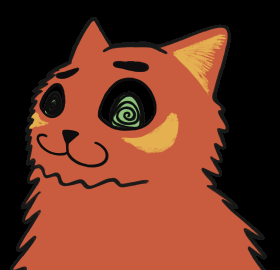
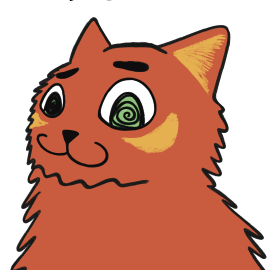
Español neutro y arte con fondo blanco en lugar de transparente
Claude-Session: https://claude.ai/code/session_01XaY7G4dsM1pSDCzmeK4CRS

diff --git a/app.js b/app.js
@@ -13,7 +13,7 @@
   ];
 
   // Posición (en % del ancho) de cada número sobre la pista; el índice 0 es la salida.
-  const PISTA_X = [2.5, 8.9, 20.7, 28.3, 37.8, 46.3, 54, 63.4, 72.4, 80.6, 91.3];
+  const PISTA_X = [2.5, 8.0, 20.5, 28.3, 37.8, 46.3, 54, 63.4, 72.4, 80.6, 91.3];
   const META = 10;
 
   const COLORES = ["#e2197c", "#2f6fd6", "#f2c230", "#35b36a", "#9b5de5"];
@@ -55,7 +55,7 @@
   function nuevaPartida() {
     limpiarTimers();
     const nRivales = +$("#rivales").value;
-    const nombre = $("#nombre").value.trim() || "Vos";
+    const nombre = $("#nombre").value.trim() || "Tú";
     const jugadores = [{ nombre, bot: false, color: COLORES[0], pts: 0, fuera: false }];
     for (let i = 0; i < nRivales; i++)
       jugadores.push({ nombre: NOMBRES_BOT[i], emoji: EMOJI_BOT[i], bot: true, color: COLORES[i + 1], pts: 0, fuera: false });
@@ -75,7 +75,7 @@
     construirMarcador();
     ui.dado.dataset.cara = "1";
     setBoton("Lanzar dado", true);
-    decir("Lanzá el dado para empezar. Buscá la carta con tantos gatos como marque el dado.");
+    decir("Lanza el dado para empezar. Busca la carta con tantos gatos como marque el dado.");
     mostrar("juego");
   }
 
@@ -168,8 +168,8 @@
     estado.fase = "ronda";
     const carta = cartaConGatos(n);
     decir(carta.encerrado
-      ? `¡Salió ${n}! Ese gato ya está encerrado… ¿te acordás en qué canil está?`
-      : `¡Salió ${n}! ¡Atrapá la carta con ${n} gato${n > 1 ? "s" : ""}!`);
+      ? `¡Salió ${n}! Ese gato ya está encerrado… ¿recuerdas en qué canil está?`
+      : `¡Salió ${n}! ¡Atrapa la carta con ${n} gato${n > 1 ? "s" : ""}!`);
 
     // Los rivales virtuales reaccionan con su propio tiempo y a veces se equivocan.
     const d = estado.dif;
@@ -188,7 +188,7 @@
     luego(9000, () => {
       if (estado.fase !== "ronda") return;
       revelar(carta, "acierto");
-      cerrarRonda(`Nadie encontró al gato de ${n}. ¡Lanzá de nuevo!`);
+      cerrarRonda(`Nadie encontró al gato de ${n}. ¡Lanza de nuevo!`);
     });
   }
 
@@ -222,7 +222,7 @@
       }
       actualizarMarcador();
 
-      const quien = j.bot ? j.nombre : "¡Vos";
+      const quien = j.bot ? j.nombre : "¡Tú";
       const texto = j.bot
         ? `${j.nombre} ${yaEstaba ? "recordó dónde estaba" : "encerró"} al gato de ${estado.objetivo}.`
         : `${quien} ${yaEstaba ? "lo recordaste" : "lo encerraste"}! +1 punto.`;
@@ -233,7 +233,7 @@
         decir(texto);
         return luego(700, () => empezarCambio(i, texto));
       }
-      cerrarRonda(texto + " Lanzá el dado otra vez.");
+      cerrarRonda(texto + " Lanza el dado otra vez.");
     } else {
       j.fuera = true;
       carta.el.classList.add("error");
@@ -241,11 +241,11 @@
       if (carta.encerrado) revelar(carta, "error");
       actualizarMarcador();
       decir(j.bot
-        ? `${j.nombre} se equivocó de gato y queda afuera de esta ronda.`
-        : `¡Ese no era! Quedás afuera de esta ronda.`);
+        ? `${j.nombre} se equivocó de gato y queda fuera de esta ronda.`
+        : `¡Ese no era! Quedas fuera de esta ronda.`);
       if (estado.jugadores.every((x) => x.fuera)) {
         revelar(cartaConGatos(estado.objetivo), "acierto");
-        cerrarRonda("Todos se equivocaron. ¡Lanzá de nuevo!");
+        cerrarRonda("Todos se equivocaron. ¡Lanza de nuevo!");
       }
     }
   }
@@ -266,7 +266,7 @@
     if (!j.bot) {
       estado.cartas.forEach((c) => c.el.classList.toggle("elegible", c !== estado.cartaGanada));
       setBoton("Seguir sin cambiar", true);
-      decir(texto + " Tocá otra carta para cambiarlas de lugar, o seguí sin cambiar.");
+      decir(texto + " Toca otra carta para cambiarlas de lugar, o sigue sin cambiar.");
       return;
     }
     setBoton("Lanzar dado", false);
@@ -283,7 +283,7 @@
 
   function terminarCambio(texto) {
     estado.cartas.forEach((c) => c.el.classList.remove("elegible"));
-    cerrarRonda((texto || "Seguimos.") + " Lanzá el dado.");
+    cerrarRonda((texto || "Seguimos.") + " Lanza el dado.");
   }
 
   function intercambiar(a, b) {

diff --git a/index.html b/index.html
@@ -4,7 +4,7 @@
   <meta charset="utf-8">
   <meta name="viewport" content="width=device-width, initial-scale=1, viewport-fit=cover">
   <title>Gato Encerrado</title>
-  <meta name="description" content="Probá online Gato Encerrado, el juego de reflejos y memoria felina de La Vaca del Tablero.">
+  <meta name="description" content="Prueba online Gato Encerrado, el juego de reflejos y memoria felina de La Vaca del Tablero.">
   <link rel="icon" href="assets/logo-gato.png">
   <link rel="preconnect" href="https://fonts.googleapis.com">
   <link rel="preconnect" href="https://fonts.gstatic.com" crossorigin>
@@ -15,11 +15,11 @@
   <!-- Pantalla de inicio -->
   <section id="inicio" class="pantalla activa">
     <img class="logo" src="assets/logo.png" alt="Gato Encerrado">
-    <p class="lema">¡Lanzá el dado, agudizá la vista y sé el más rápido en atrapar al gato!</p>
+    <p class="lema">¡Lanza el dado, agudiza la vista y sé el más rápido en atrapar al gato!</p>
 
     <div class="panel config">
       <label>Tu nombre
-        <input id="nombre" maxlength="14" value="Vos">
+        <input id="nombre" maxlength="14" value="Tú">
       </label>
       <label>Rivales (gatos virtuales)
         <select id="rivales">
@@ -64,7 +64,7 @@
           <div id="dado" class="dado" data-cara="1" aria-live="polite"></div>
           <button id="btn-dado" class="btn">Lanzar dado</button>
         </div>
-        <p id="mensaje" class="mensaje" aria-live="polite">Lanzá el dado para empezar.</p>
+        <p id="mensaje" class="mensaje" aria-live="polite">Lanza el dado para empezar.</p>
         <ul id="marcador" class="marcador"></ul>
       </aside>
     </div>
@@ -82,11 +82,11 @@
     <h2>Cómo se juega</h2>
     <ol>
       <li><b>Preparación:</b> las 6 cartas de gato se ponen boca arriba. Cada carta tiene una cantidad distinta de gatos-sushi: de <b>1 a 6</b>.</li>
-      <li><b>Lanzá el dado.</b> Todos buscan a la vez la carta que tenga <b>tantos gatos como marca el dado</b>.</li>
+      <li><b>Lanza el dado.</b> Todos buscan a la vez la carta que tenga <b>tantos gatos como marca el dado</b>.</li>
       <li>El primero en tocarla <b>encierra al gato</b>: gana 1 punto y la carta se da vuelta y muestra el canil.</li>
-      <li><b>Giros (opcional):</b> quien encerró al gato puede cambiar esa carta de lugar con otra. ¡Mirá bien a dónde va!</li>
-      <li>Si sale un número cuyo gato ya está encerrado, hay que <b>recordar</b> en qué canil está. Si acertás, sumás el punto.</li>
-      <li>¿Tocaste la carta equivocada? No perdés puntos, pero quedás afuera de esa ronda.</li>
+      <li><b>Giros (opcional):</b> quien encerró al gato puede cambiar esa carta de lugar con otra. ¡Mira bien a dónde va!</li>
+      <li>Si sale un número cuyo gato ya está encerrado, hay que <b>recordar</b> en qué canil está. Si aciertas, sumas el punto.</li>
+      <li>¿Tocaste la carta equivocada? No pierdes puntos, pero quedas fuera de esa ronda.</li>
       <li>Cada jugador avanza su cubo en la pista de puntos.</li>
       <li>Gana quien llega primero a <b>10 puntos</b>.</li>
     </ol>

diff --git a/style.css b/style.css
@@ -31,7 +31,7 @@ body {
   align-items: center;
   padding: 24px 16px 32px;
   gap: 12px;
-  background: var(--panel);
+  background: var(--panel) url("assets/fondo-gatos.jpg") center / 420px repeat;
 }
 #inicio .logo {
   width: min(420px, 90vw);

diff --git a/README.md b/README.md
@@ -2,20 +2,20 @@
 
 Versión web de prueba de **Gato Encerrado**, el juego de reflejos y memoria felina de **La Vaca del Tablero**.
 
-> ¡Lanzá el dado, agudizá la vista y sé el más rápido en atrapar al gato!
+> ¡Lanza el dado, agudiza la vista y sé el más rápido en atrapar al gato!
 
 - 2 a 5 jugadores · 8+ · 15 minutos
 - Diseño: Danny Blue Jet · Ilustración: Buho Pintura
 
-En esta versión jugás en el navegador contra 1 a 4 gatos virtuales (rivales controlados por la computadora), con tres niveles de dificultad. Funciona en computadora y en el celular, sin instalar nada.
+En esta versión juegas en el navegador contra 1 a 4 gatos virtuales (rivales controlados por la computadora), con tres niveles de dificultad. Funciona en computadora y en el celular, sin instalar nada.
 
 ## Cómo jugarlo
 
-Abrí `index.html` en el navegador, o servilo con cualquier servidor estático:
+Abre `index.html` en el navegador, o sírvelo con cualquier servidor estático:
 
 ```bash
 python3 -m http.server 8000
-# y entrá a http://localhost:8000
+# y entra a http://localhost:8000
 ```
 
 Está pensado para publicarse con **GitHub Pages** (Settings → Pages → Deploy from branch → `main` / root).
@@ -38,7 +38,7 @@ El manual todavía no tiene los textos, así que estas reglas se infirieron de l
 3. Quien lo encierra gana 1 punto y la carta se da vuelta, mostrando el canil.
 4. **Giros (opcional):** quien encerró al gato puede cambiar esa carta de lugar con cualquier otra.
 5. Si sale un número cuyo gato ya está encerrado, hay que recordar en qué canil quedó. Quien lo encuentre suma 1 punto (la carta vuelve a quedar boca abajo).
-6. Si tocás una carta equivocada no hay penalización de puntos (confirmado), pero quedás afuera de esa ronda.
+6. Si tocas una carta equivocada no hay penalización de puntos (confirmado), pero quedas fuera de esa ronda.
 7. Cada jugador avanza su cubo por la pista de puntos.
 8. **Gana quien llega primero a 10 puntos.**
 
